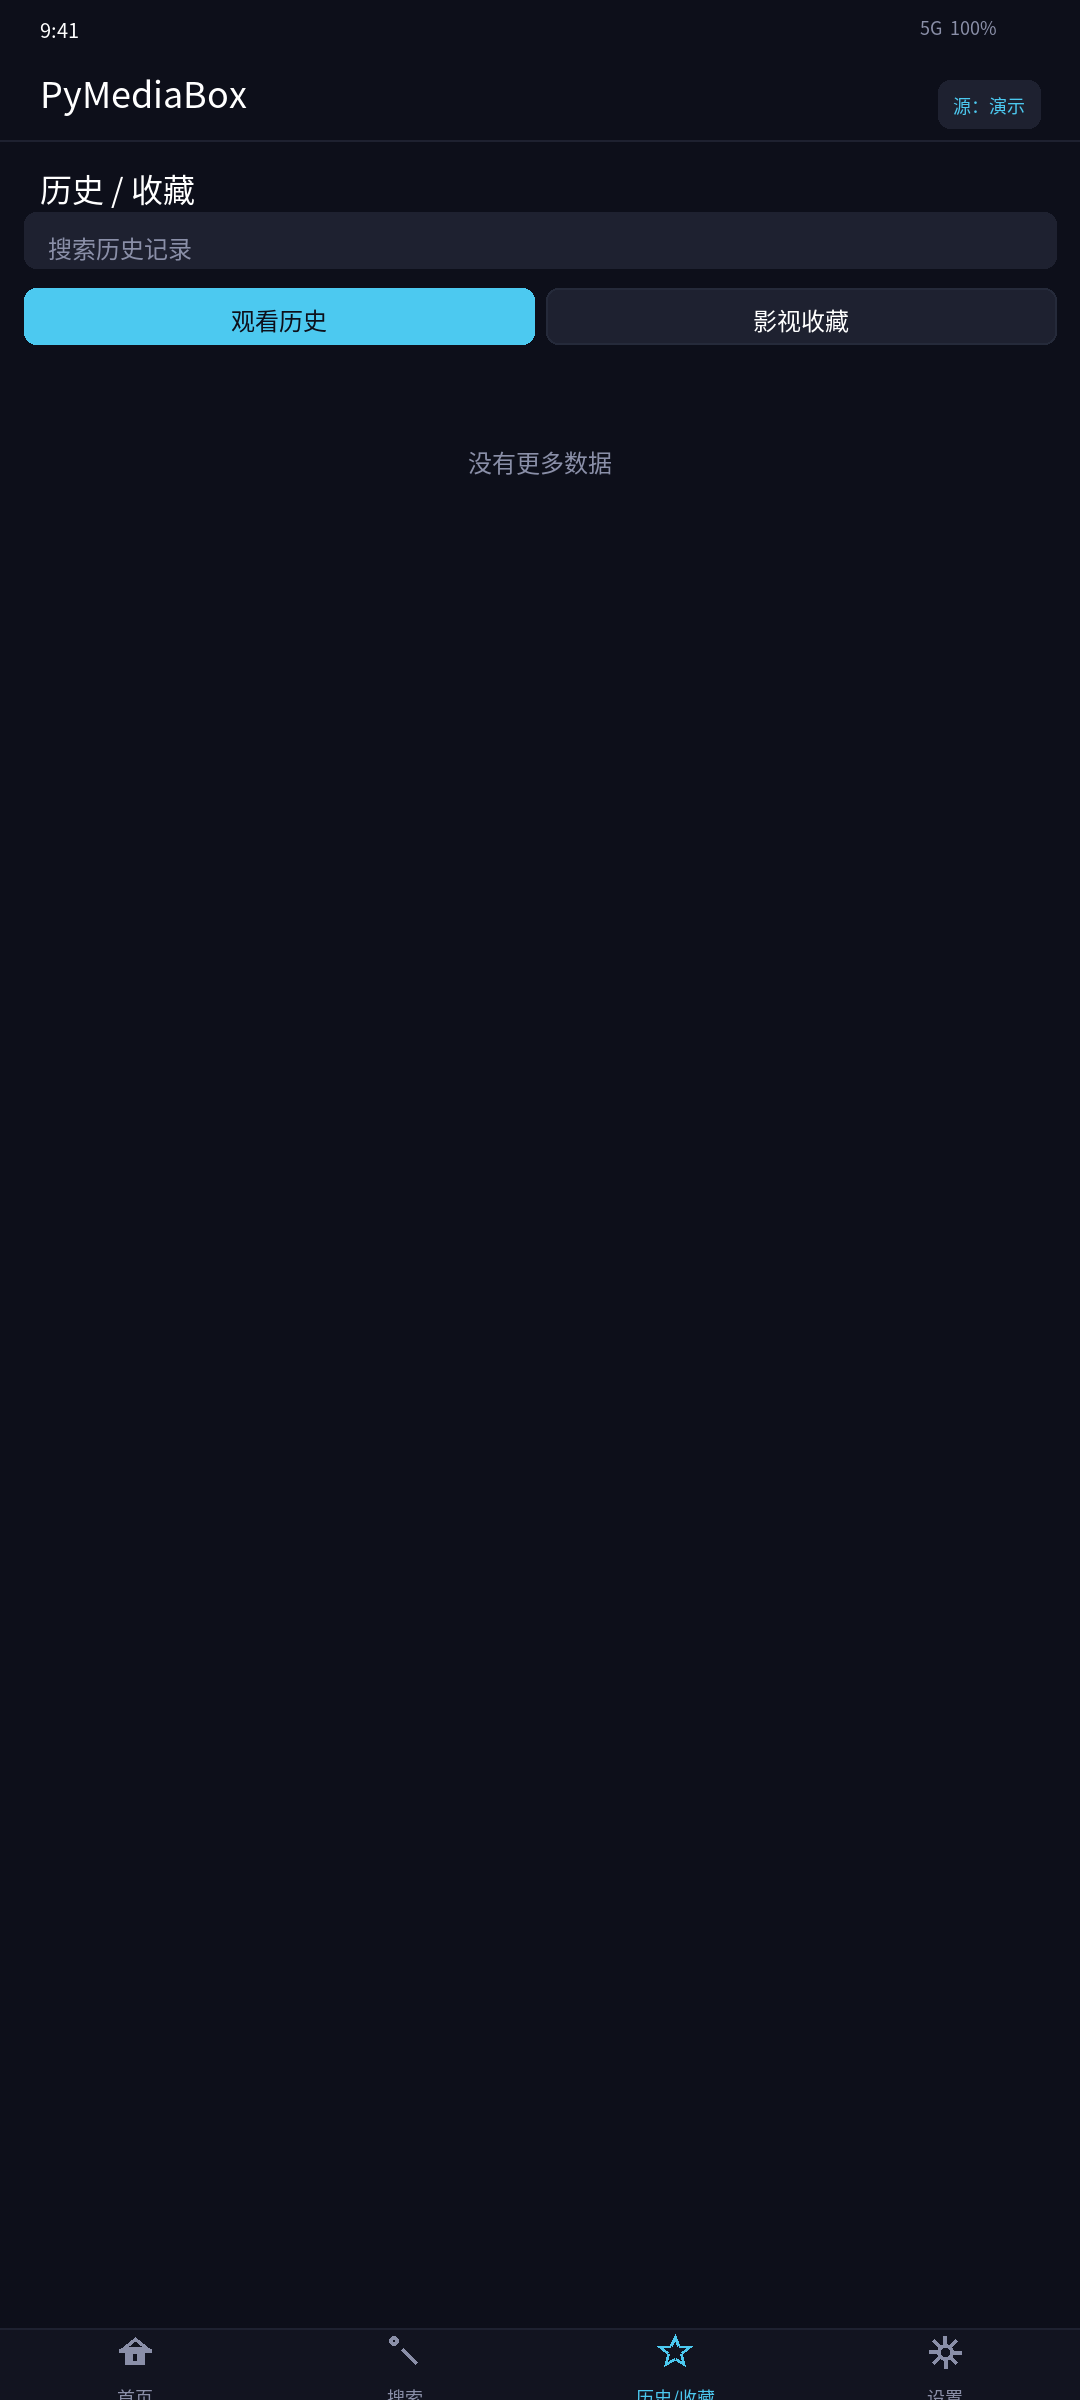
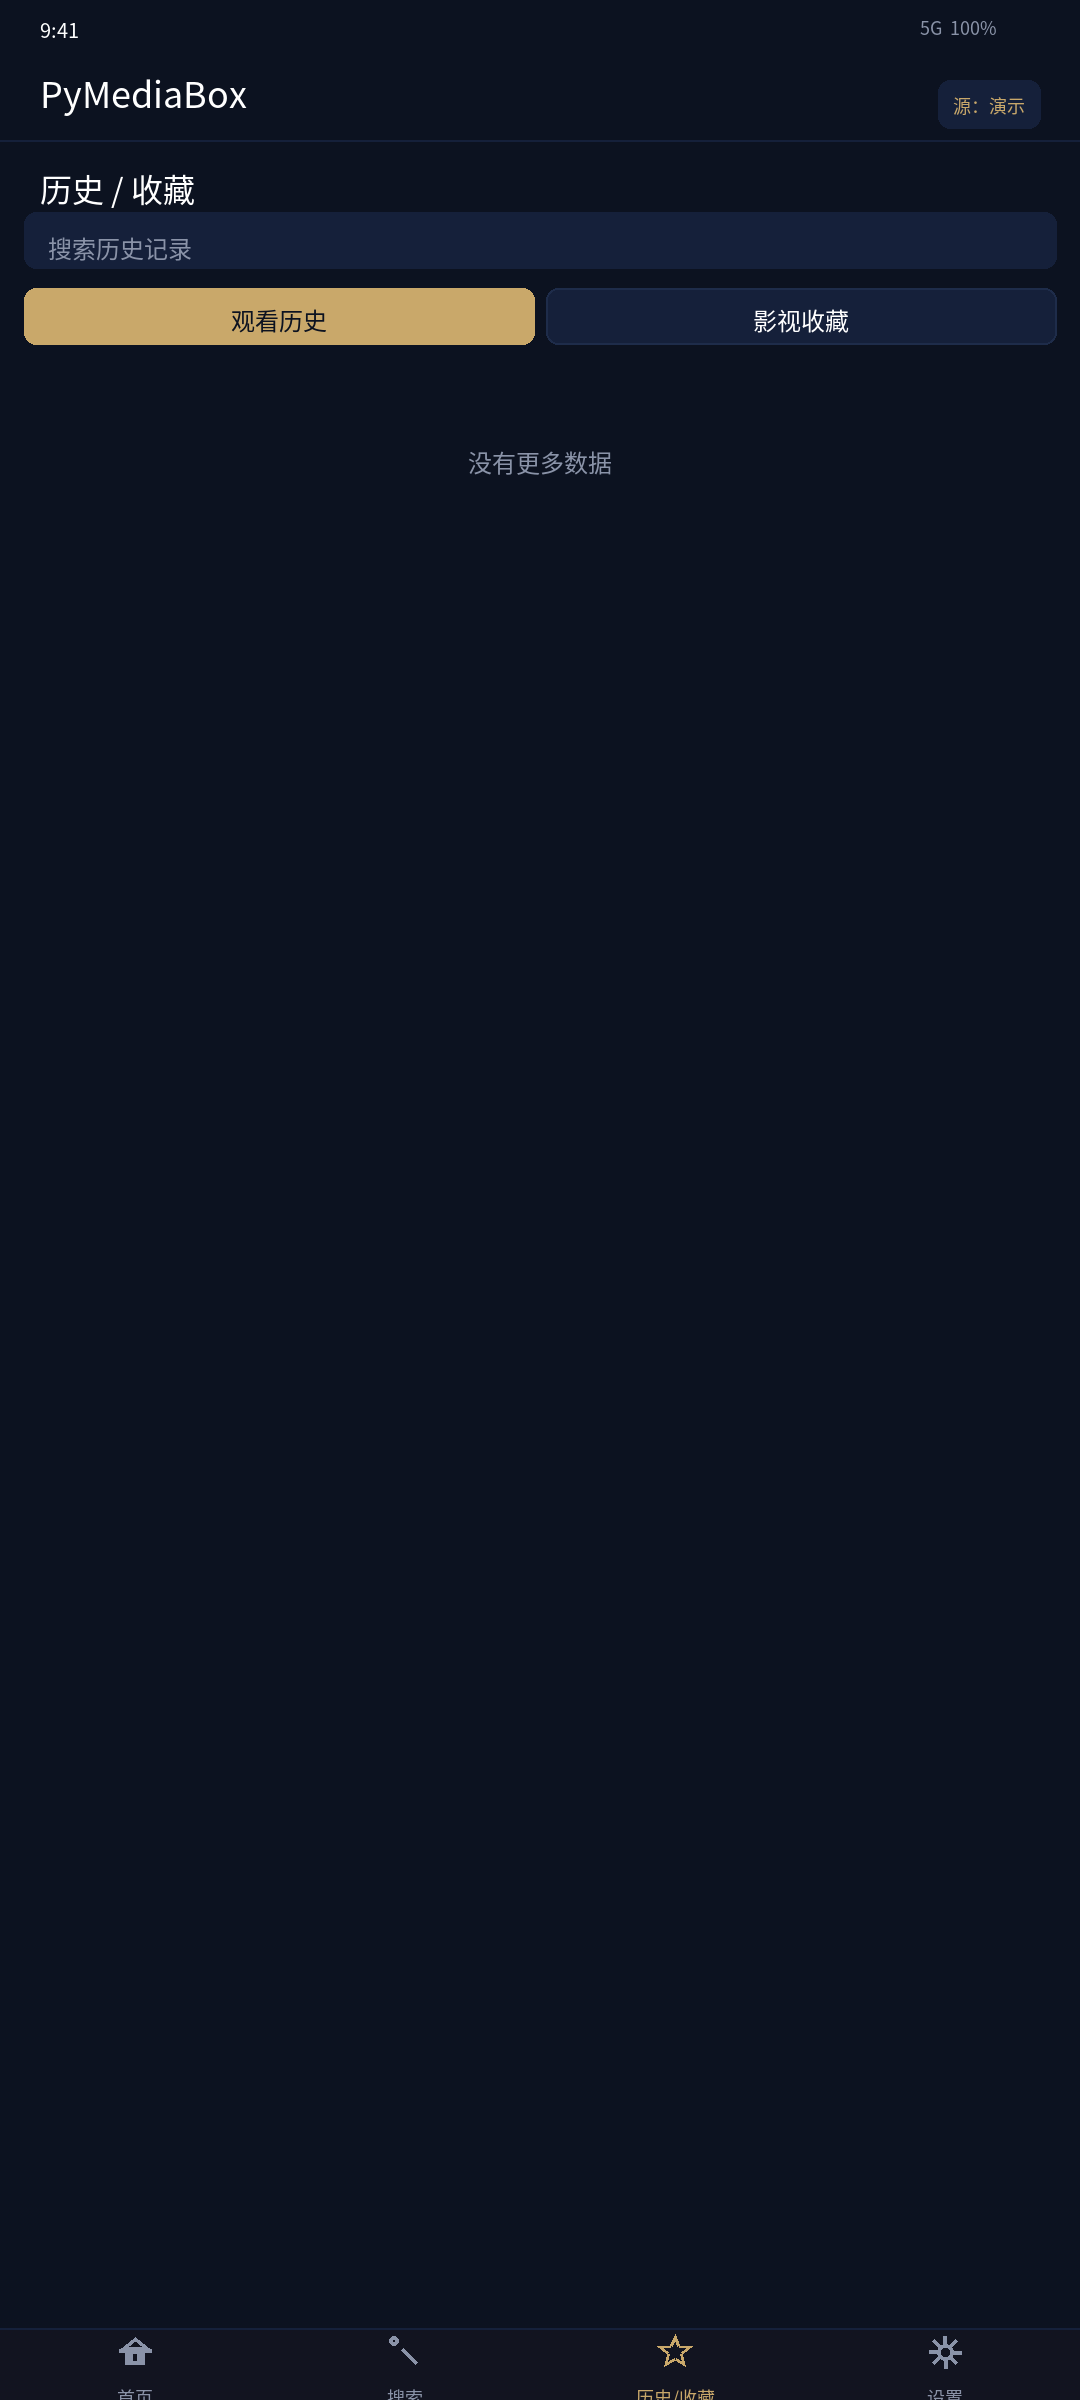
预览图同步：首页移除已删除的历史/收藏分段

Changed region(s): [[0.0, 0.0938, 0.5194, 0.1562], [0.6111, 0.9688, 0.6417, 1.0]]

diff --git a/preview/gen_preview.py b/preview/gen_preview.py
@@ -9,13 +9,13 @@ FONT_REG = os.path.join(BASE, "fonts", "NotoSansSC-Regular.otf")
 OUT = os.path.join(BASE, "out")
 os.makedirs(OUT, exist_ok=True)
 
-BLACK    = (13, 15, 26)
-CARD     = (30, 33, 48)
-CARD2    = (37, 42, 58)
-ACCENT   = (76, 201, 240)
-ACCENT_D = (46, 139, 168)
+BLACK    = (12, 18, 32)
+CARD     = (21, 32, 58)
+CARD2    = (30, 44, 74)
+ACCENT   = (201, 168, 106)
+ACCENT_D = (138, 114, 69)
 WHITE    = (255, 255, 255)
-SECOND   = (138, 143, 168)
+SECOND   = (138, 147, 168)
 DANGER   = (255, 107, 107)
 NAV_BG   = (242, 20, 31, 31)
 
@@ -116,8 +116,11 @@ def page_home():
     d.text((40, hy+40), "推荐精选", font=f_xs, fill=ACCENT)
     d.text((40, hy+72), "今日焦点 · 在线示例影片", font=f_hero1, fill=WHITE)
     d.text((40, hy+140), "Big Buck Bunny · 10MB · H.264", font=f_xs, fill=SECOND)
-    d.rectangle((W-120, hy+hh-50, W-50, hy+hh-14), fill=CARD)
-    d.text((W-108, hy+hh-44), "1/3", font=f_xs, fill=WHITE)
+    rrect(d, (W-120, hy+hh-50, W-40, hy+hh-10), 8, CARD)
+    for k in range(3):
+        px = W-110 + k*16
+        col = ACCENT if k==0 else SECOND
+        d.ellipse((px, hy+hh-40, px+8, hy+hh-32), fill=col)
     y = hy + hh + 16
 
     # ② 分类标签横排
@@ -165,27 +168,7 @@ def page_home():
         d.text((gx+12+10, gy+268), tag, font=f_xs, fill=BLACK)
     y = y + 2*row_h + 2*12 + 16
 
-    # ⑤ 历史/收藏分段
-    hw = (W-40-12)//2
-    rrect(d, (16, y, 16+hw, y+56), 12, ACCENT)
-    d.text((16+hw//2 - tw("观看历史",f_card)//2, y+14), "观看历史", font=f_card, fill=BLACK)
-    rrect(d, (16+hw+12, y, 16+hw+12+hw, y+56), 12, CARD, outline=CARD2, width=2)
-    d.text((16+hw+12+hw//2 - tw("影视收藏",f_card)//2, y+14), "影视收藏", font=f_card, fill=WHITE)
-    y += 56 + 16
-
-    # ⑥ 历史卡片横排（示意 3 张）
-    for i in range(3):
-        cw2 = 200
-        gx = 16 + i*(cw2+12)
-        rrect(d, (gx, y, gx+cw2, y+150), 12, CARD)
-        rrect(d, (gx, y, gx+cw2, y+90), 12, CARD2)
-        d.rectangle((gx, y+80, gx+cw2, y+90), fill=CARD2)
-        d.text((gx+cw2//2-10, y+30), "影", font=f_card, fill=ACCENT)
-        d.text((gx+10, y+102), "Big Buck Bunny", font=f_xs, fill=WHITE)
-        d.text((gx+10, y+124), "在线 · 09-18 21:50", font=f_xs, fill=SECOND)
-    y += 150 + 20
-
-    # ⑦ 快捷入口
+        # ⑤ 快捷入口
     kw = (W-40-12)//2
     rrect(d, (16, y, 16+kw, y+64), 12, CARD, outline=CARD2, width=2)
     d.text((16+kw//2 - tw("本地媒体",f_card)//2, y+18), "本地媒体", font=f_card, fill=WHITE)
